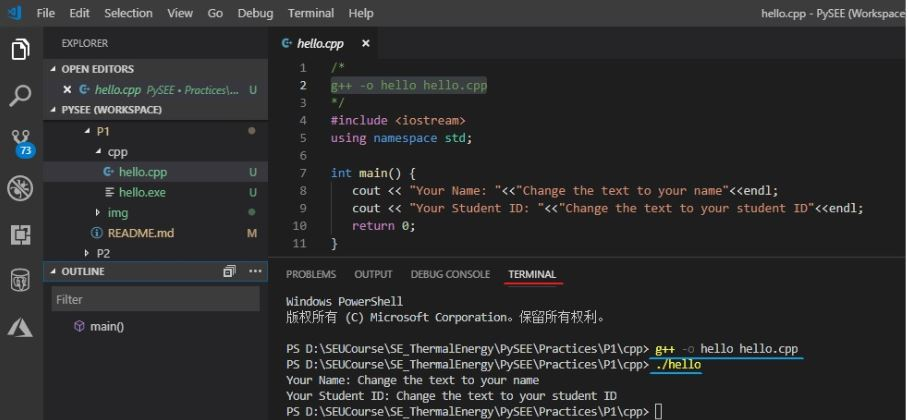
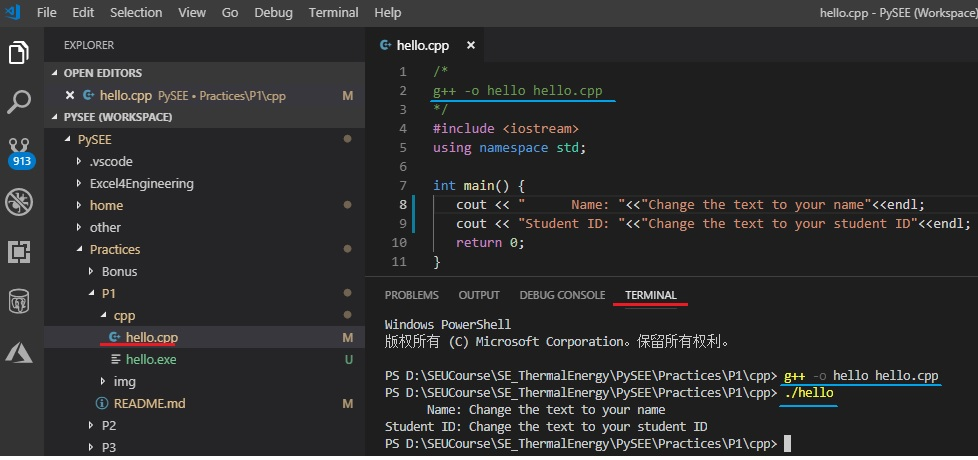
update S2019

diff --git a/P1/cpp/hello.cpp b/P1/cpp/hello.cpp
@@ -5,7 +5,7 @@ g++ -o hello hello.cpp
 using namespace std;
  
 int main() {
-   cout << "Your Name: "<<"Change the text to your name"<<endl;
-   cout << "Your Student ID: "<<"Change the text to your student ID"<<endl;
+   cout << "      Name: "<<"Change the text to your name"<<endl;
+   cout << "Student ID: "<<"Change the text to your student ID"<<endl;
    return 0;
 }

diff --git a/P1/README.md b/P1/README.md
@@ -22,9 +22,9 @@ Deadline: 2019.03.17
    
 * Python程序：从[02_INTRODUCTION_TO_PYTHON](http://nbviewer.jupyter.org/github/PySEE/home/blob/S2019/notebook/Lecture1-2-02_INTRODUCTION_TO_PYTHON.ipynb)中任选一段代码，代码加上用print输出自己的学号和姓名。
 
-* C++程序: 使用VS Code修改 [hello.cpp](./cpp/hello.cpp) 代码， 将其中的"Change the text to your name"和"Change the text to your student ID"，修改为自己的姓名和学号，使用MinGW-W64编译运行. 提交修改后的源码，使用Visual Studio Code编辑代码和运行的截图
+* C++程序: 使用VS Code修改 [hello.cpp](./cpp/hello.cpp) 代码， 将其中的"Change the text to your name"和"Change the text to your student ID"，修改为自己的姓名和学号，使用MinGW-W64编译运行. 提交: 修改后的源码，使用Visual Studio Code编辑代码和运行时的截图
 
-```cpp  
+```cpp 
 /*
 g++ -o hello hello.cpp
 */
@@ -32,8 +32,8 @@ g++ -o hello hello.cpp
 using namespace std;
  
 int main() {
-   cout << "Your Name: "<<"Change the text to your name"<<endl;
-   cout << "Your Student ID: "<<"Change the text to your student ID"<<endl;
+   cout << "      Name: "<<"Change the text to your name"<<endl;
+   cout << "Student ID: "<<"Change the text to your student ID"<<endl;
    return 0;
 }
 ```
